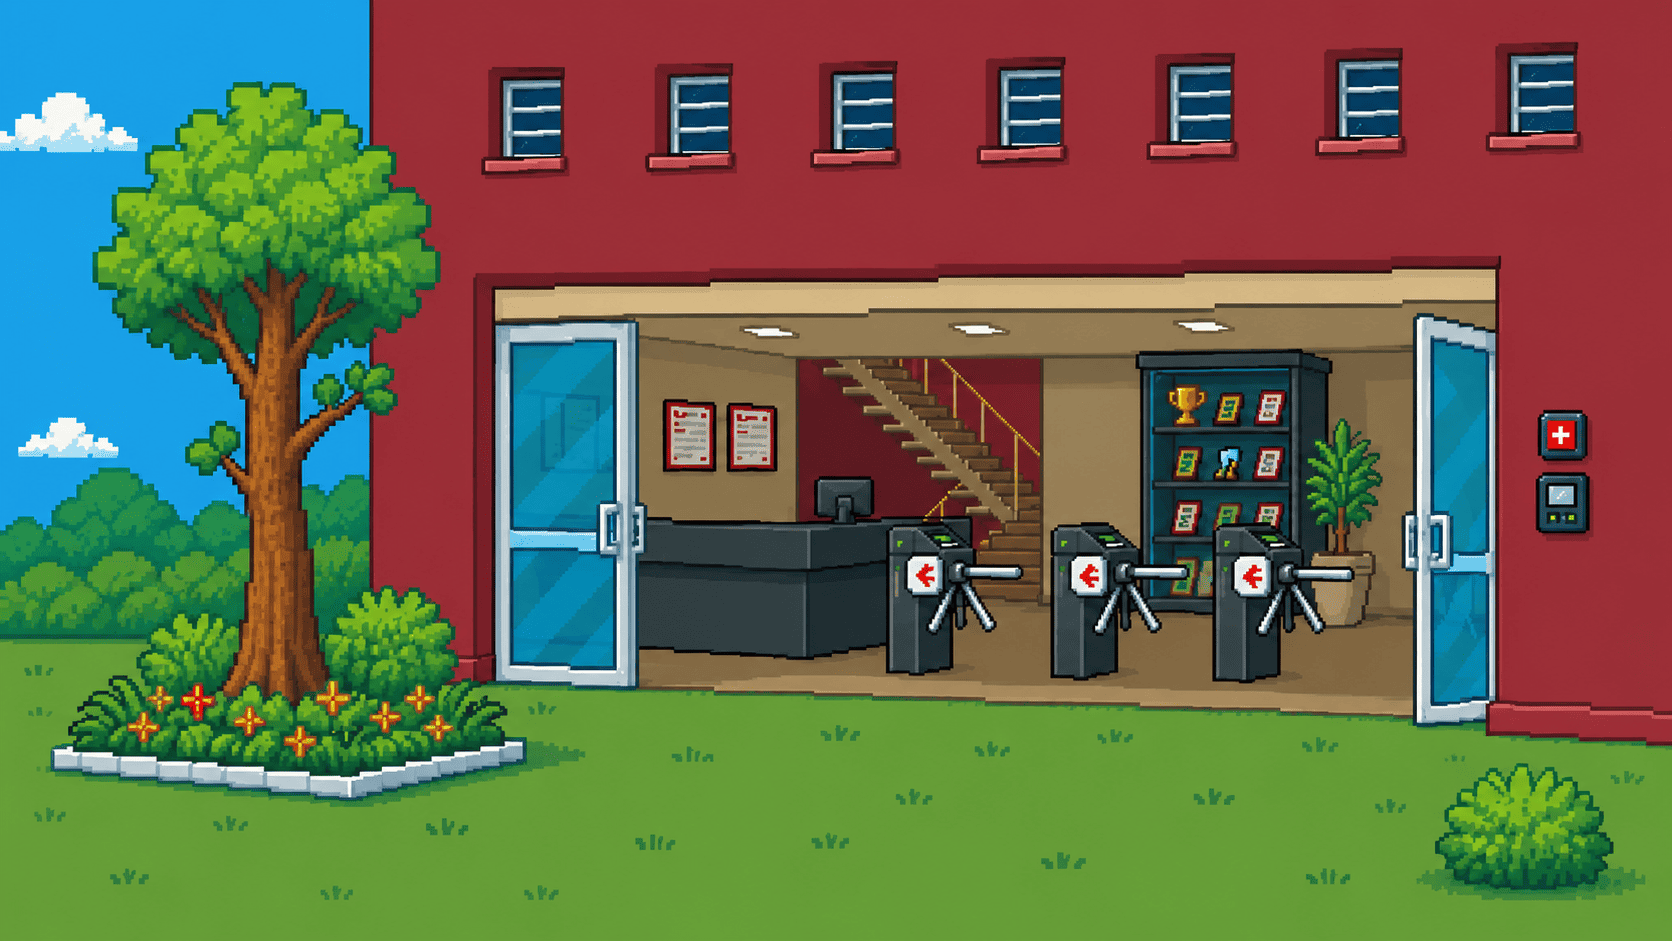
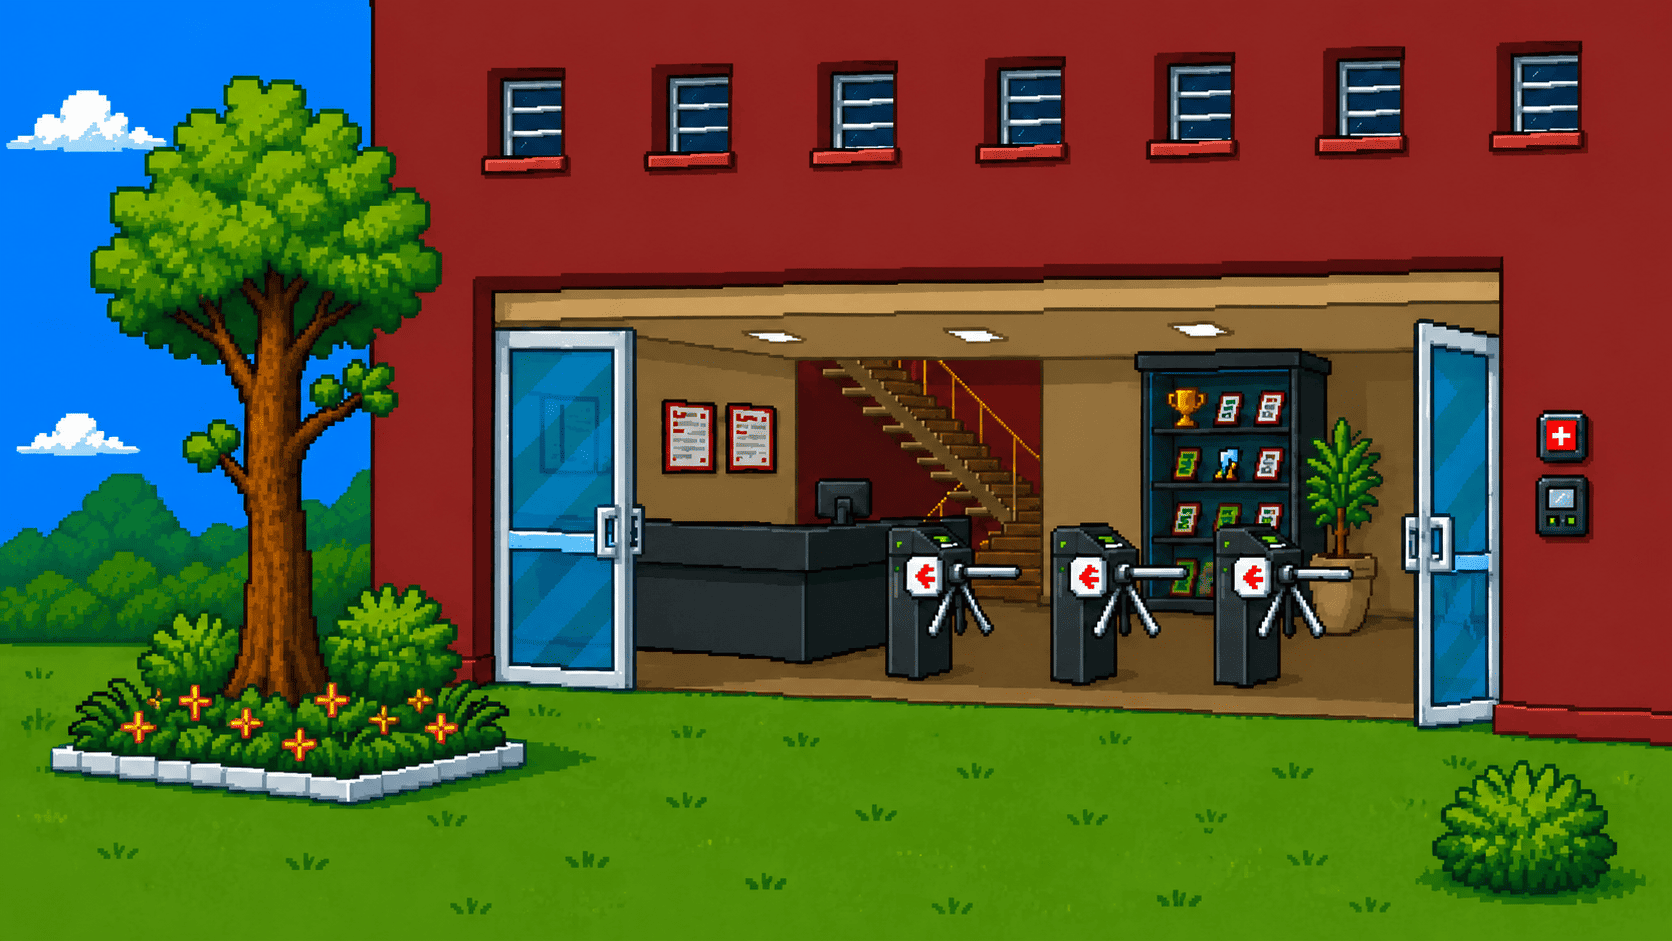
menu de pause e ajuste nas cores nos fundos

diff --git a/main.py b/main.py
@@ -48,7 +48,7 @@ except Exception as e:
     img_cracha.fill((255, 215, 0))
     img_cracha_hud = pygame.transform.scale(img_cracha, (35, 35))
 
-# Posicionamento corrigido do NPC
+# Posicionamento do NPC
 rect_npc1 = pygame.Rect(450, config.chao.y - 128, 64, 64)
 
 config.ultimo_tempo = pygame.time.get_ticks()
@@ -96,7 +96,6 @@ def reiniciar_jogo():
     config.tempo_energia_restante = 0
     config.cooldown_tiro_reduzido = False
     jogador.velocidade = 5
-    
     # Limpa projéteis e drops do chão
     config.projeteis.clear()
     config.itens_no_chao.clear()
@@ -132,6 +131,10 @@ def usar_escudo():
         config.inventario["escudo"] -= 1
         config.tempo_escudo_restante = 600
 
+pause_selecionado = 0
+jogo_pausado = False
+mostrar_controles_pause = False
+
 menu_selecionado = 0
 mostrar_controles = False
 
@@ -158,6 +161,9 @@ while config.rodando:
         config.cooldown_tiro_reduzido = False
         jogador.velocidade = 5
 
+    # =========================================================================
+    # ESTADO 1: MENU INICIAL
+    # =========================================================================
     if config.no_menu:
         for evento in pygame.event.get():
             if evento.type == pygame.QUIT:
@@ -165,6 +171,7 @@ while config.rodando:
             elif evento.type == pygame.VIDEORESIZE:
                 largura_janela_real, altura_janela_real = evento.w, evento.h
                 tela_real = pygame.display.set_mode((largura_janela_real, altura_janela_real), pygame.RESIZABLE)
+                
             if evento.type == pygame.KEYDOWN:
                 if evento.key == pygame.K_ESCAPE:
                     mostrar_controles = False
@@ -190,6 +197,9 @@ while config.rodando:
         pygame.display.flip()
         continue
 
+    # =========================================================================
+    # ESTADO 2: GAME OVER
+    # =========================================================================
     if config.game_over:
         for evento in pygame.event.get():
             if evento.type == pygame.QUIT:
@@ -211,35 +221,92 @@ while config.rodando:
         pygame.display.flip()
         continue
 
+    # =========================================================================
+    # ESTADO 3: EVENTOS DO JOGO (Normal e Pausado)
+    # =========================================================================
     for evento in pygame.event.get():
         if evento.type == pygame.QUIT:
             config.rodando = False
         elif evento.type == pygame.VIDEORESIZE:
             largura_janela_real, altura_janela_real = evento.w, evento.h
             tela_real = pygame.display.set_mode((largura_janela_real, altura_janela_real), pygame.RESIZABLE)
-        if evento.type == pygame.KEYDOWN:
-            if evento.key == pygame.K_SPACE and not jogador.pulando and not jogador.em_hit:
-                jogador.pulando = True
-                jogador.velocidade_y = -config.velocidade_pulo
-            if evento.key == pygame.K_UP and not jogador.pulando and not jogador.em_hit:
-                jogador.pulando = True
-                jogador.velocidade_y = -config.velocidade_pulo
-            if evento.key == pygame.K_t:
-                if config.perto_do_npc and config.fase_atual == 0:
-                    if not config.mostrar_balao:
-                        config.mostrar_balao = True
-                        config.indice_dialogo = 0
-                    else:
-                        config.indice_dialogo += 1
-                        if config.indice_dialogo >= len(config.dialogo_npc1):
-                            config.mostrar_balao = False
-            if evento.key == pygame.K_1:
-                usar_vida()
-            if evento.key == pygame.K_2:
-                usar_energia()
-            if evento.key == pygame.K_3:
-                usar_escudo()
 
+        if evento.type == pygame.KEYDOWN:
+            # --- SE O JOGO ESTIVER PAUSADO ---
+            if jogo_pausado:
+                if mostrar_controles_pause:
+                    if evento.key in (pygame.K_ESCAPE, pygame.K_SPACE, pygame.K_RETURN):
+                        mostrar_controles_pause = False
+                else:
+                    if evento.key == pygame.K_ESCAPE:
+                        jogo_pausado = False
+                    elif evento.key in (pygame.K_DOWN, pygame.K_s):
+                        pause_selecionado = (pause_selecionado + 1) % 4
+                    elif evento.key in (pygame.K_UP, pygame.K_w):
+                        pause_selecionado = (pause_selecionado - 1) % 4
+                    elif evento.key in (pygame.K_RETURN, pygame.K_KP_ENTER, pygame.K_SPACE):
+                        if pause_selecionado == 0:
+                            jogo_pausado = False
+                        elif pause_selecionado == 1:
+                            config.carregar_fase(config.fase_atual)
+                            config.projeteis.clear()
+                            config.itens_no_chao.clear()
+                            jogador.rect.x = config.POS_X_INICIAL
+                            jogador.rect.y = config.POS_Y_INICIAL
+                            jogo_pausado = False
+                        elif pause_selecionado == 2:
+                            mostrar_controles_pause = True
+                        elif pause_selecionado == 3:
+                            config.rodando = False
+            # --- SE O JOGO ESTIVER RODANDO NORMALMENTE ---
+            else:
+                if evento.key == pygame.K_ESCAPE:
+                    jogo_pausado = True
+                    pause_selecionado = 0
+                    mostrar_controles_pause = False
+                elif evento.key == pygame.K_SPACE and not jogador.pulando and not jogador.em_hit:
+                    jogador.pulando = True
+                    jogador.velocidade_y = -config.velocidade_pulo
+                elif evento.key == pygame.K_UP and not jogador.pulando and not jogador.em_hit:
+                    jogador.pulando = True
+                    jogador.velocidade_y = -config.velocidade_pulo
+                elif evento.key == pygame.K_k:
+                    config.atacando
+                elif evento.key == pygame.K_1:
+                    usar_vida()
+                elif evento.key == pygame.K_2:
+                    usar_energia()
+                elif evento.key == pygame.K_3:
+                    usar_escudo()
+                elif evento.key == pygame.K_t:
+                    if config.perto_do_npc and config.fase_atual == 0:
+                        if not config.mostrar_balao:
+                            config.mostrar_balao = True
+                            config.indice_dialogo = 0
+                        else:
+                            config.indice_dialogo += 1
+                            if config.indice_dialogo >= len(config.dialogo_npc1):
+                                config.mostrar_balao = False
+
+    # =========================================================================
+    # ESTADO 4: A TRAVA DO PAUSE
+    # =========================================================================
+    if jogo_pausado:
+        render.desenhar_pause(superficie_virtual, pause_selecionado, mostrar_controles_pause)
+        
+        proporcao_janela = largura_janela_real / altura_janela_real
+        proporcao_virtual = LARGURA_VIRTUAL / ALTURA_VIRTUAL
+
+        tela_redimensionada = pygame.transform.scale(superficie_virtual, (largura_janela_real, altura_janela_real))
+        tela_real.fill((0, 0, 0))
+        tela_real.blit(tela_redimensionada, (0, 0))
+
+        pygame.display.flip()
+        continue
+
+    # =========================================================================
+    # LÓGICA DE GAMEPLAY E FÍSICA (SÓ RODA SE NÃO ESTIVER PAUSADO)
+    # =========================================================================
     area_conversa = rect_npc1.inflate(100, 50)
     if jogador.rect.colliderect(area_conversa):
         config.perto_do_npc = True
@@ -257,7 +324,6 @@ while config.rodando:
         tiro.atualizar()
         if (tiro.rect.x > 1920 or tiro.rect.x < 0) and tiro in config.projeteis:
             config.projeteis.remove(tiro)
-
 
     for pinguim_atual in config.inimigos_cenario[:]:
         if pinguim_atual.vivo:
@@ -287,7 +353,6 @@ while config.rodando:
                         break
 
     if jogador.rect.x > 1920 or jogador.rect.x < 0:
-        # Define se existe uma próxima fase ou uma fase anterior
         pode_avancar = (jogador.rect.x > 1920) and ((config.fase_atual + 1) in config.fases)
         pode_voltar = (jogador.rect.x < 0) and ((config.fase_atual - 1) in config.fases)
 
@@ -296,15 +361,14 @@ while config.rodando:
             config.carregar_fase(config.fase_atual)
             config.projeteis.clear()
             config.itens_no_chao.clear()
-            jogador.rect.x = 10  # Brota no início da nova fase
+            jogador.rect.x = 10
         elif pode_voltar:
             config.fase_atual -= 1
             config.carregar_fase(config.fase_atual)
             config.projeteis.clear()
             config.itens_no_chao.clear()
-            jogador.rect.x = 1910  # Brota no final da fase anterior
+            jogador.rect.x = 1910
         else:
-            # Se NÃO houver outra fase, ele bate na parede invisível e não passa
             if jogador.rect.x > 1920:
                 jogador.rect.right = 1920
             elif jogador.rect.x < 0:
@@ -320,24 +384,47 @@ while config.rodando:
         config.tempo_segundos += 1
         config.contador_frames_tempo = 0
 
-    # Desenha tudo na superfície virtual estática
+    # =========================================================================
+    # DESENHO DA TELA E ITENS (O QUE ESTAVA FALTANDO!)
+    # =========================================================================
     render.desenhar_tudo(superficie_virtual, jogador, fonte, rect_npc1, sprite_jogador_atual, img_cracha_hud)
+
+    deslocamento_y = math.sin(tempo_atual * 0.005) * 8
 
     for item in config.itens_no_chao[:]:
         if isinstance(item, ItemColetavel):
-            superficie_virtual.blit(item.image, item.rect)
+            rect_flutuante = item.rect.copy()
+            rect_flutuante.y += int(deslocamento_y)
+            superficie_virtual.blit(item.image, rect_flutuante)
             if jogador.rect.colliderect(item.rect):
                 config.inventario[item.tipo] += 1
                 config.itens_no_chao.remove(item)
         else:
-            superficie_virtual.blit(item["imagem"], item["rect"])
+            rect_flutuante = item["rect"].copy()
+            rect_flutuante.y += int(deslocamento_y)
+            superficie_virtual.blit(item["imagem"], rect_flutuante)
             if jogador.rect.colliderect(item["rect"]):
                 config.inventario["cracha"] += 1
                 config.itens_no_chao.remove(item)
 
-    # Adapta a superfície virtual para o tamanho atual da janela real do monitor
+    proporcao_janela = largura_janela_real / altura_janela_real
+    proporcao_virtual = LARGURA_VIRTUAL / ALTURA_VIRTUAL
+
+    if proporcao_janela > proporcao_virtual:
+        nova_altura = altura_janela_real
+        nova_largura = int(nova_altura * proporcao_virtual)
+    else:
+        nova_largura = largura_janela_real
+        nova_altura = int(nova_largura / proporcao_virtual)
+
+    pos_x = (largura_janela_real - nova_largura) // 2
+    pos_y = (altura_janela_real - nova_altura) // 2
+
     tela_redimensionada = pygame.transform.scale(superficie_virtual, (largura_janela_real, altura_janela_real))
+    tela_real.fill((0, 0, 0))
     tela_real.blit(tela_redimensionada, (0, 0))
+
+    
     pygame.display.flip()
 
 pygame.quit()

diff --git a/render.py b/render.py
@@ -5,7 +5,7 @@ import math
 
 def desenhar_menu(tela, indice_selecionado, mostrar_controles):
     tempo = pygame.time.get_ticks()
-    # Como a tela agora é SEMPRE a superfície virtual (1920x1080), as dimensões são fixas
+  
     largura_original = 1920
     altura_original = 1080
     
@@ -21,10 +21,10 @@ def desenhar_menu(tela, indice_selecionado, mostrar_controles):
     tela.blit(fundo_com_zoom, (fundo_x, fundo_y))
     
     if mostrar_controles:
-        overlay = pygame.Surface((1000, 470))
+        overlay = pygame.Surface((1000, 570))
         overlay.set_alpha(210)
         overlay.fill((0, 0, 0))
-        # Posição centralizada corrigida para 1920x1080
+       
         tela.blit(overlay, ((largura_original - 1000) // 2, 300))
         
         controles = [
@@ -33,8 +33,11 @@ def desenhar_menu(tela, indice_selecionado, mostrar_controles):
             "A / D: Mover Personagem",
             "Seta Cima / Espaco: Pular",
             "K: Atirar Projetil",
+            "1/2/3: Usar coletaveis",
             "T: Interagir com NPCs",
-            "Esc / Espaco: Voltar"
+            "Esc: Pausar",
+            "",
+            "(Espaco para voltar)"
         ]
         
         for i, linha in enumerate(controles):
@@ -48,7 +51,7 @@ def desenhar_menu(tela, indice_selecionado, mostrar_controles):
         opcoes = ["INICIAR JOGO", "CONTROLES", "SAIR"]
         for i, opcao in enumerate(opcoes):
             tx = largura_original // 2 - 150
-            ty = 800 + i * 70  # Ajustado ligeiramente para encaixar no layout 1080p
+            ty = 800 + i * 70  # para encaixar no layout 1080p
             
             if i == indice_selecionado:
                 tx += 30
@@ -264,3 +267,66 @@ def desenhar_tudo(tela, jogador, fonte, rect_npc, sprite_mostrar, img_cracha_hud
     mx, my = pygame.mouse.get_pos()
     texto_debug = fonte.render(f"X: {mx}, Y: {my}", True, (255, 255, 255))
     tela.blit(texto_debug, (mx + 10, my - 20))
+
+
+def desenhar_pause(tela, indice_selecionado, mostrar_controles):
+    largura_original = 1920
+    altura_original = 1080
+    tempo = pygame.time.get_ticks()
+
+    # Cria uma cortina transpartente
+    overlay_fundo = pygame.Surface((largura_original, altura_original))
+    overlay_fundo.set_alpha(30)
+    overlay_fundo.fill((10, 10, 20))
+    tela.blit(overlay_fundo, (0, 0))
+
+    if mostrar_controles:
+        overlay = pygame.Surface((1000, 470))
+        overlay.set_alpha(230)
+        overlay.fill((0, 0, 0))
+        tela.blit(overlay, ((largura_original - 1000) // 2, 300))
+        
+        controles = [
+            "CONTROLES",
+            "",
+            "A / D: Mover Personagem",
+            "Seta Cima / Espaco: Pular",
+            "K: Atirar Projetil",
+            "T: Interagir com NPCs",
+            "Esc / Espaco: Voltar"
+        ]
+        
+        for i, linha in enumerate(controles):
+            texto = recursos.fonte_pixel_titulo.render(linha, True, (255, 255, 255))
+            tx = largura_original // 2 - texto.get_width() // 2
+            ty = 330 + i * 50
+            sombra = recursos.fonte_pixel_titulo.render(linha, True, (20, 20, 20))
+            tela.blit(sombra, (tx + 2, ty + 2))
+            tela.blit(texto, (tx, ty))
+    else:
+        # Desenha o Título PAUSE em destaque
+        texto_pause = recursos.fonte_pixel_titulo.render("JOGO PAUSADO", True, (255, 0, 0))
+        sombra_pause = recursos.fonte_pixel_titulo.render("JOGO PAUSADO", True, (0, 0, 0))
+        tela.blit(sombra_pause, (largura_original // 2 - texto_pause.get_width() // 2 + 4, 354))
+        tela.blit(texto_pause, (largura_original // 2 - texto_pause.get_width() // 2, 350))
+
+        # Opções do menu de Pause
+        opcoes = ["VOLTAR AO JOGO", "REINICIAR FASE", "CONTROLES", "SAIR PARA O DESKTOP"]
+        for i, opcao in enumerate(opcoes):
+            tx = largura_original // 2 - 200
+            ty = 500 + i * 75
+            
+            if i == indice_selecionado:
+                tx += 25
+                valor_pulsante = int(197 + 58 * math.sin(tempo * 0.005))
+                cor_pulsante = (valor_pulsante, int(valor_pulsante * 0.84), 0)
+                texto_final = f"> {opcao}"
+                cor_final = cor_pulsante
+            else:
+                texto_final = opcao
+                cor_final = (255, 255, 255)
+    
+            texto = recursos.fonte_pixel_titulo.render(texto_final, True, cor_final)
+            sombra_opcao = recursos.fonte_pixel_titulo.render(texto_final, True, (10, 10, 15))
+            tela.blit(sombra_opcao, (tx + 3, ty + 3))
+            tela.blit(texto, (tx, ty))
